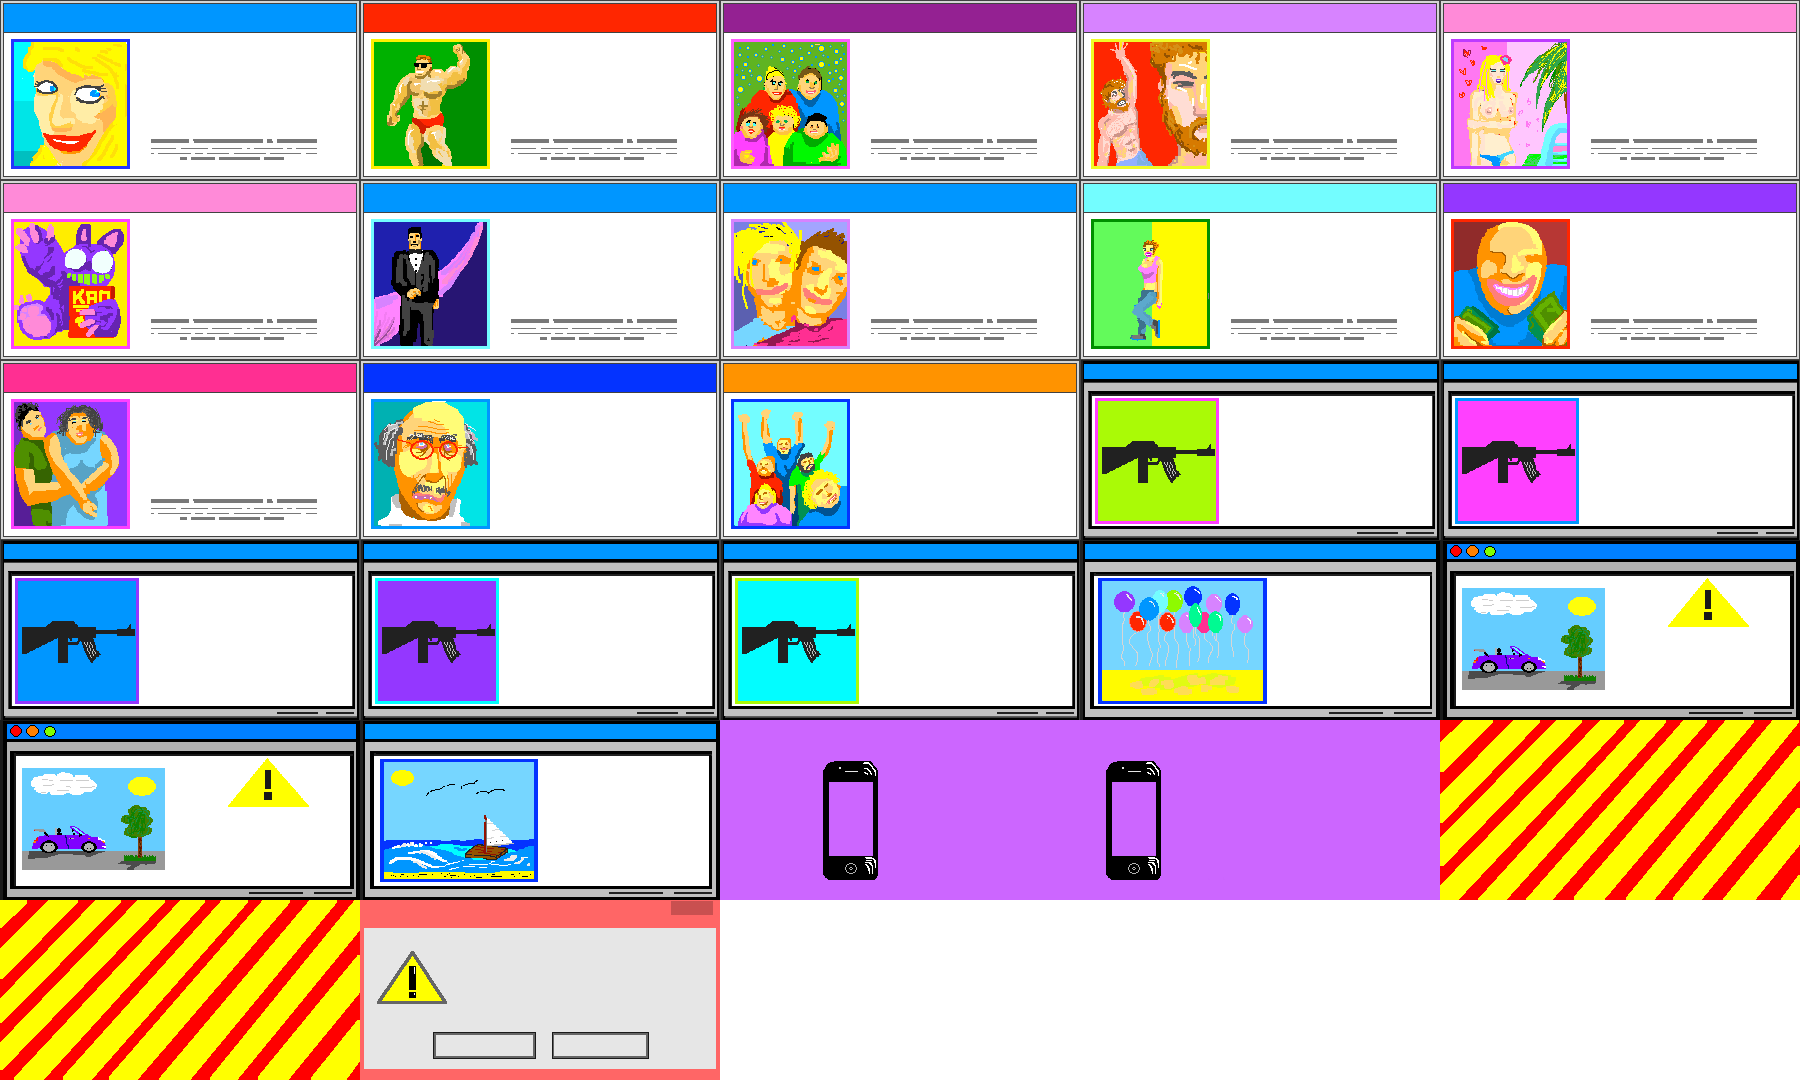
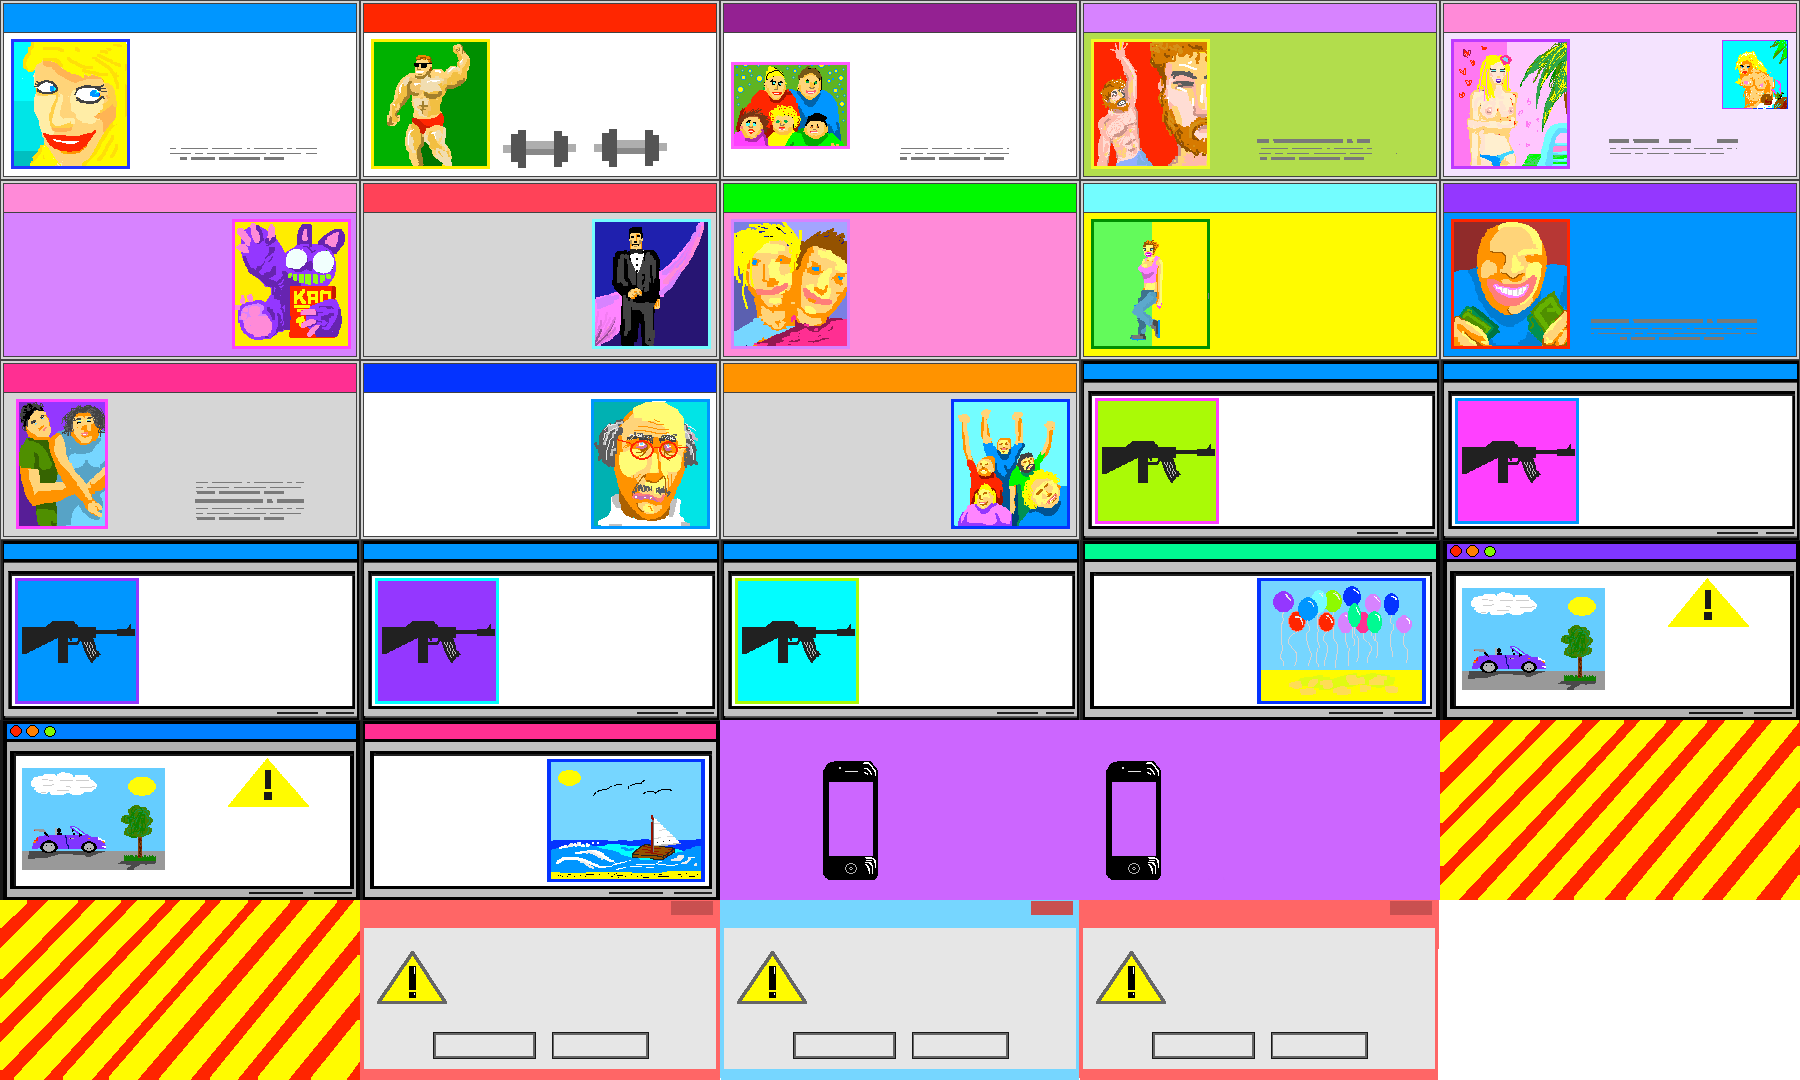
udated popups

diff --git a/src/ballsosimple/ads.js b/src/ballsosimple/ads.js
@@ -1,5 +1,7 @@
 'use strict';
 
+export const NUM_ADS = 20;
+
 export const ads = { 
   popup0: {
     x: 145,
@@ -195,6 +197,16 @@ export const ads = {
     x: 145,
     y: 50,
     frames: [26],
+    fps: 1,
+    text: [
+      'DESIRE TO CRAVE\nCall us now!',
+      'Lose 20 lbs\nin 2 hours!',
+    ]
+  },
+  popup20: {
+    x: 145,
+    y: 50,
+    frames: [27],
     fps: 1,
     text: [
       'DESIRE TO CRAVE\nCall us now!',

diff --git a/src/ballsosimple/popups.js b/src/ballsosimple/popups.js
@@ -1,8 +1,6 @@
 'use strict';
 
-import { ads } from './ads';
-
-const NUM_ADS = 19;
+import { ads, NUM_ADS } from './ads';
 
 export function initPopups() {
   this._popups = this.add.group();
